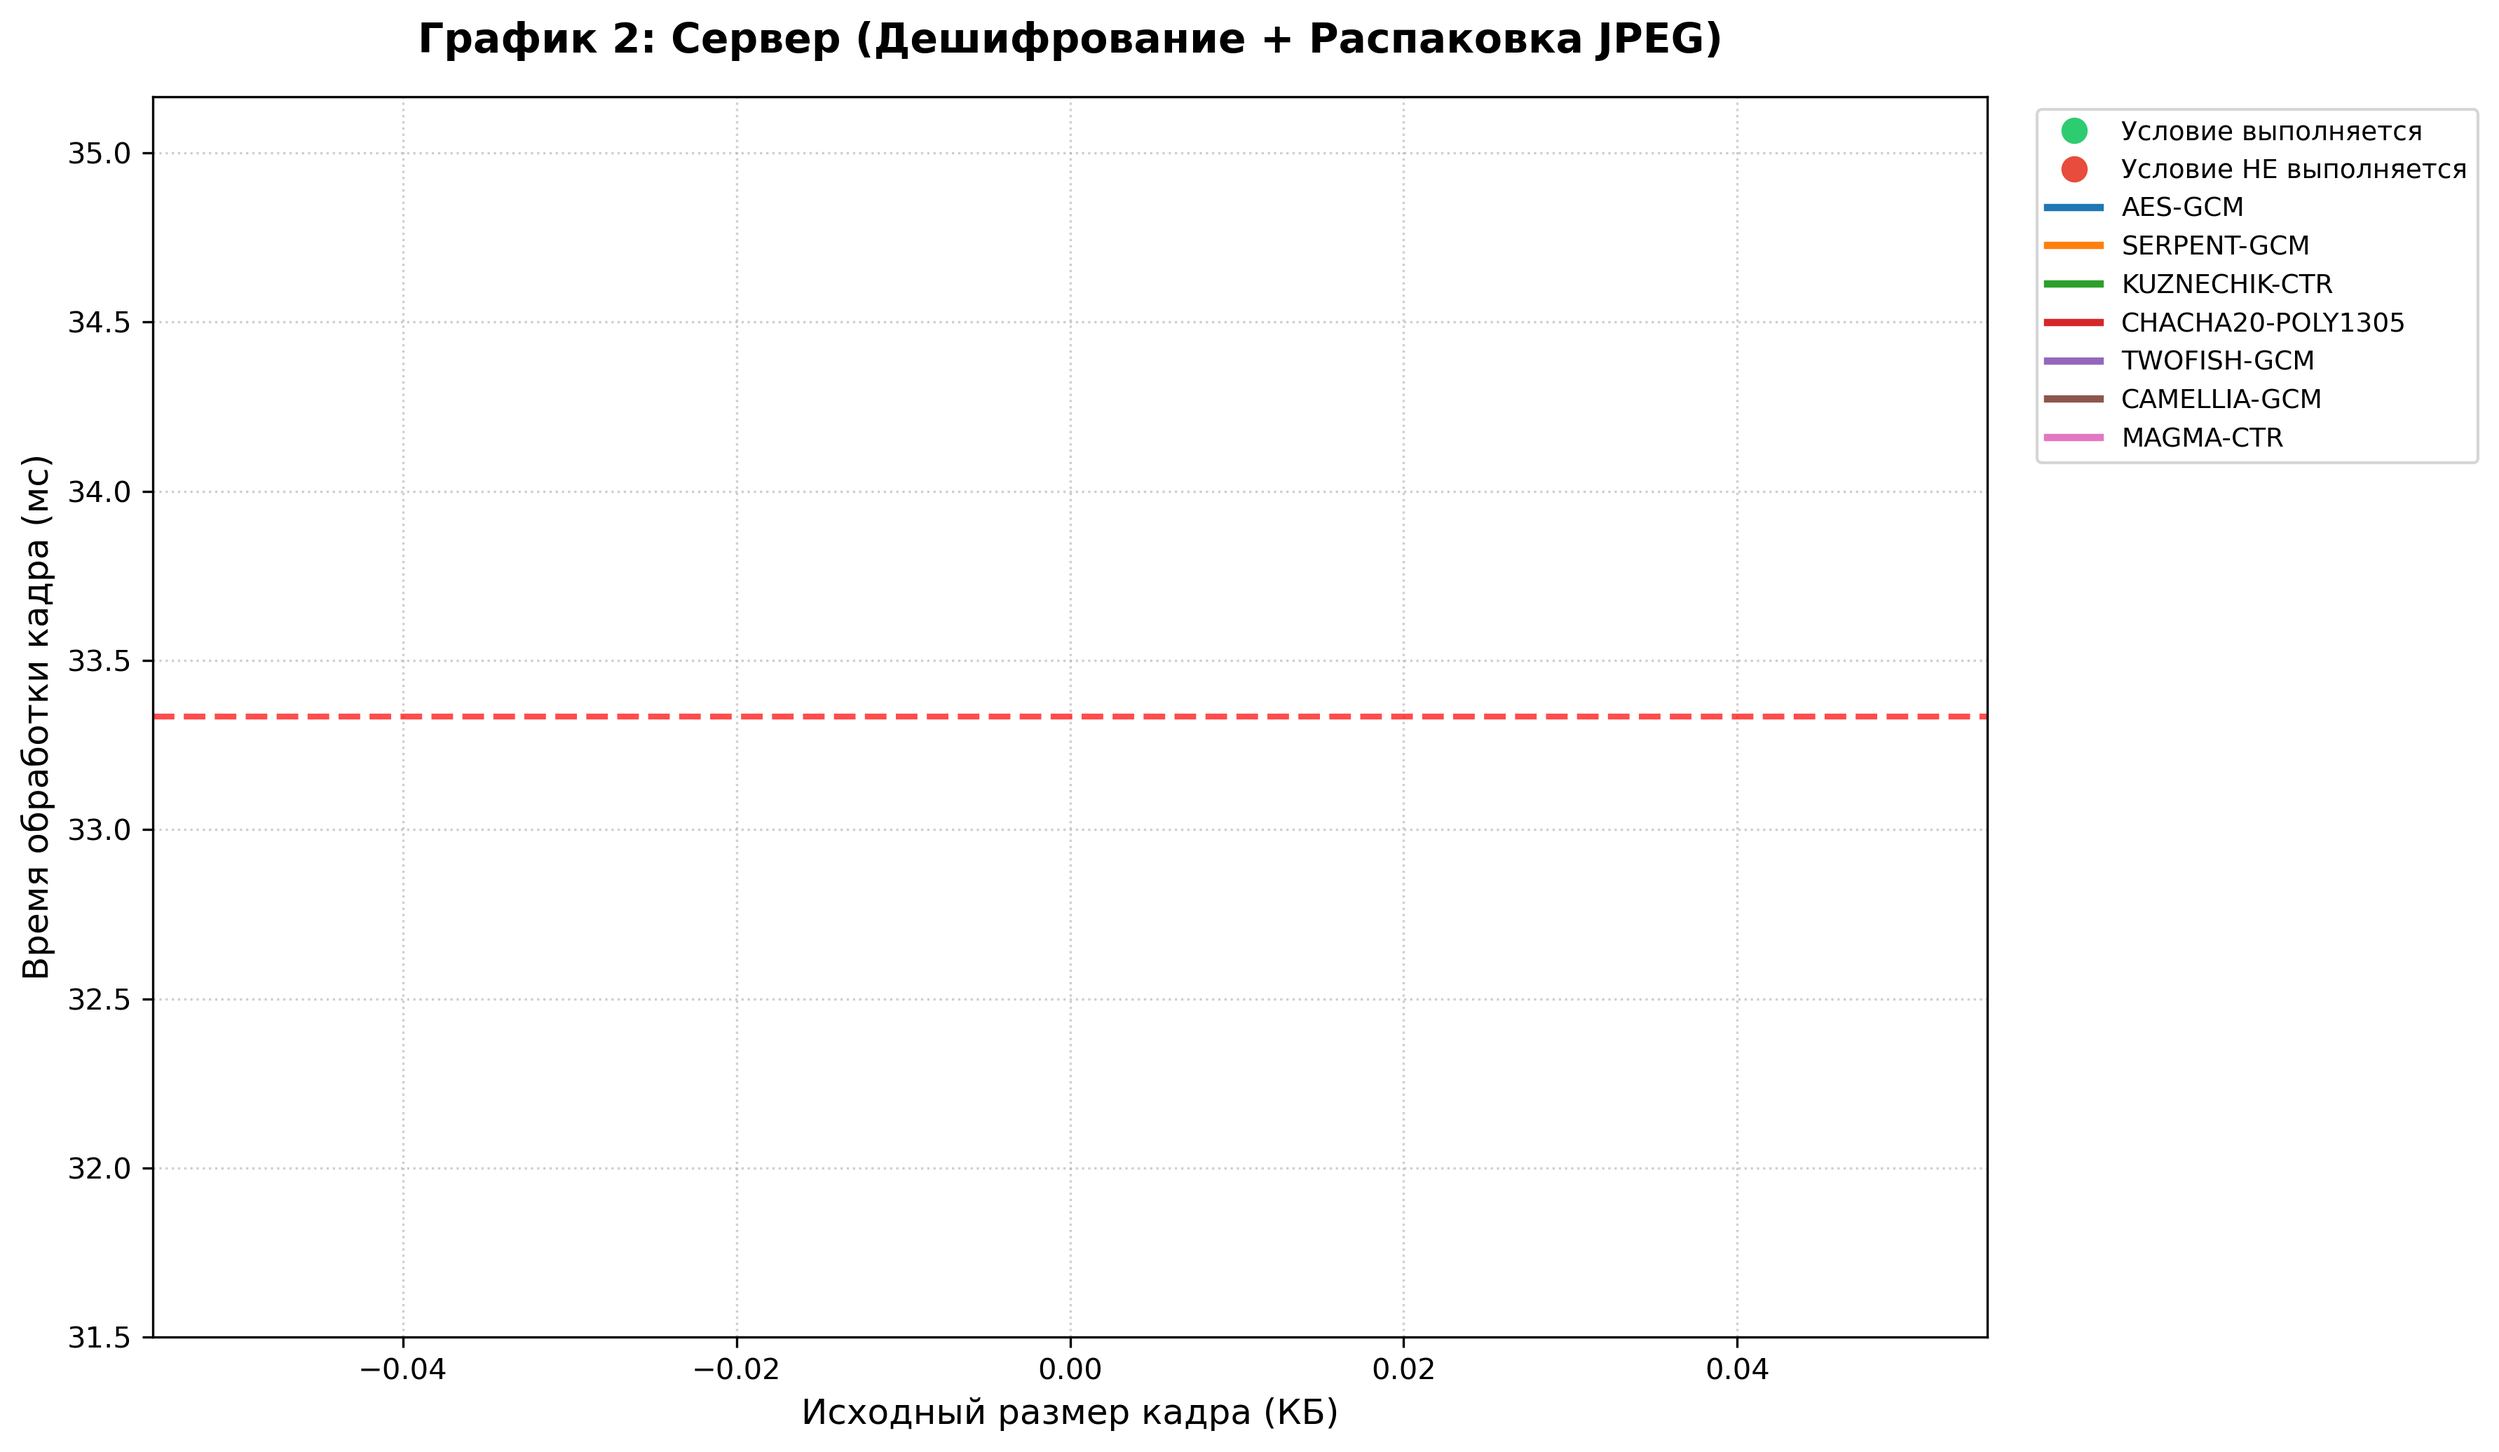
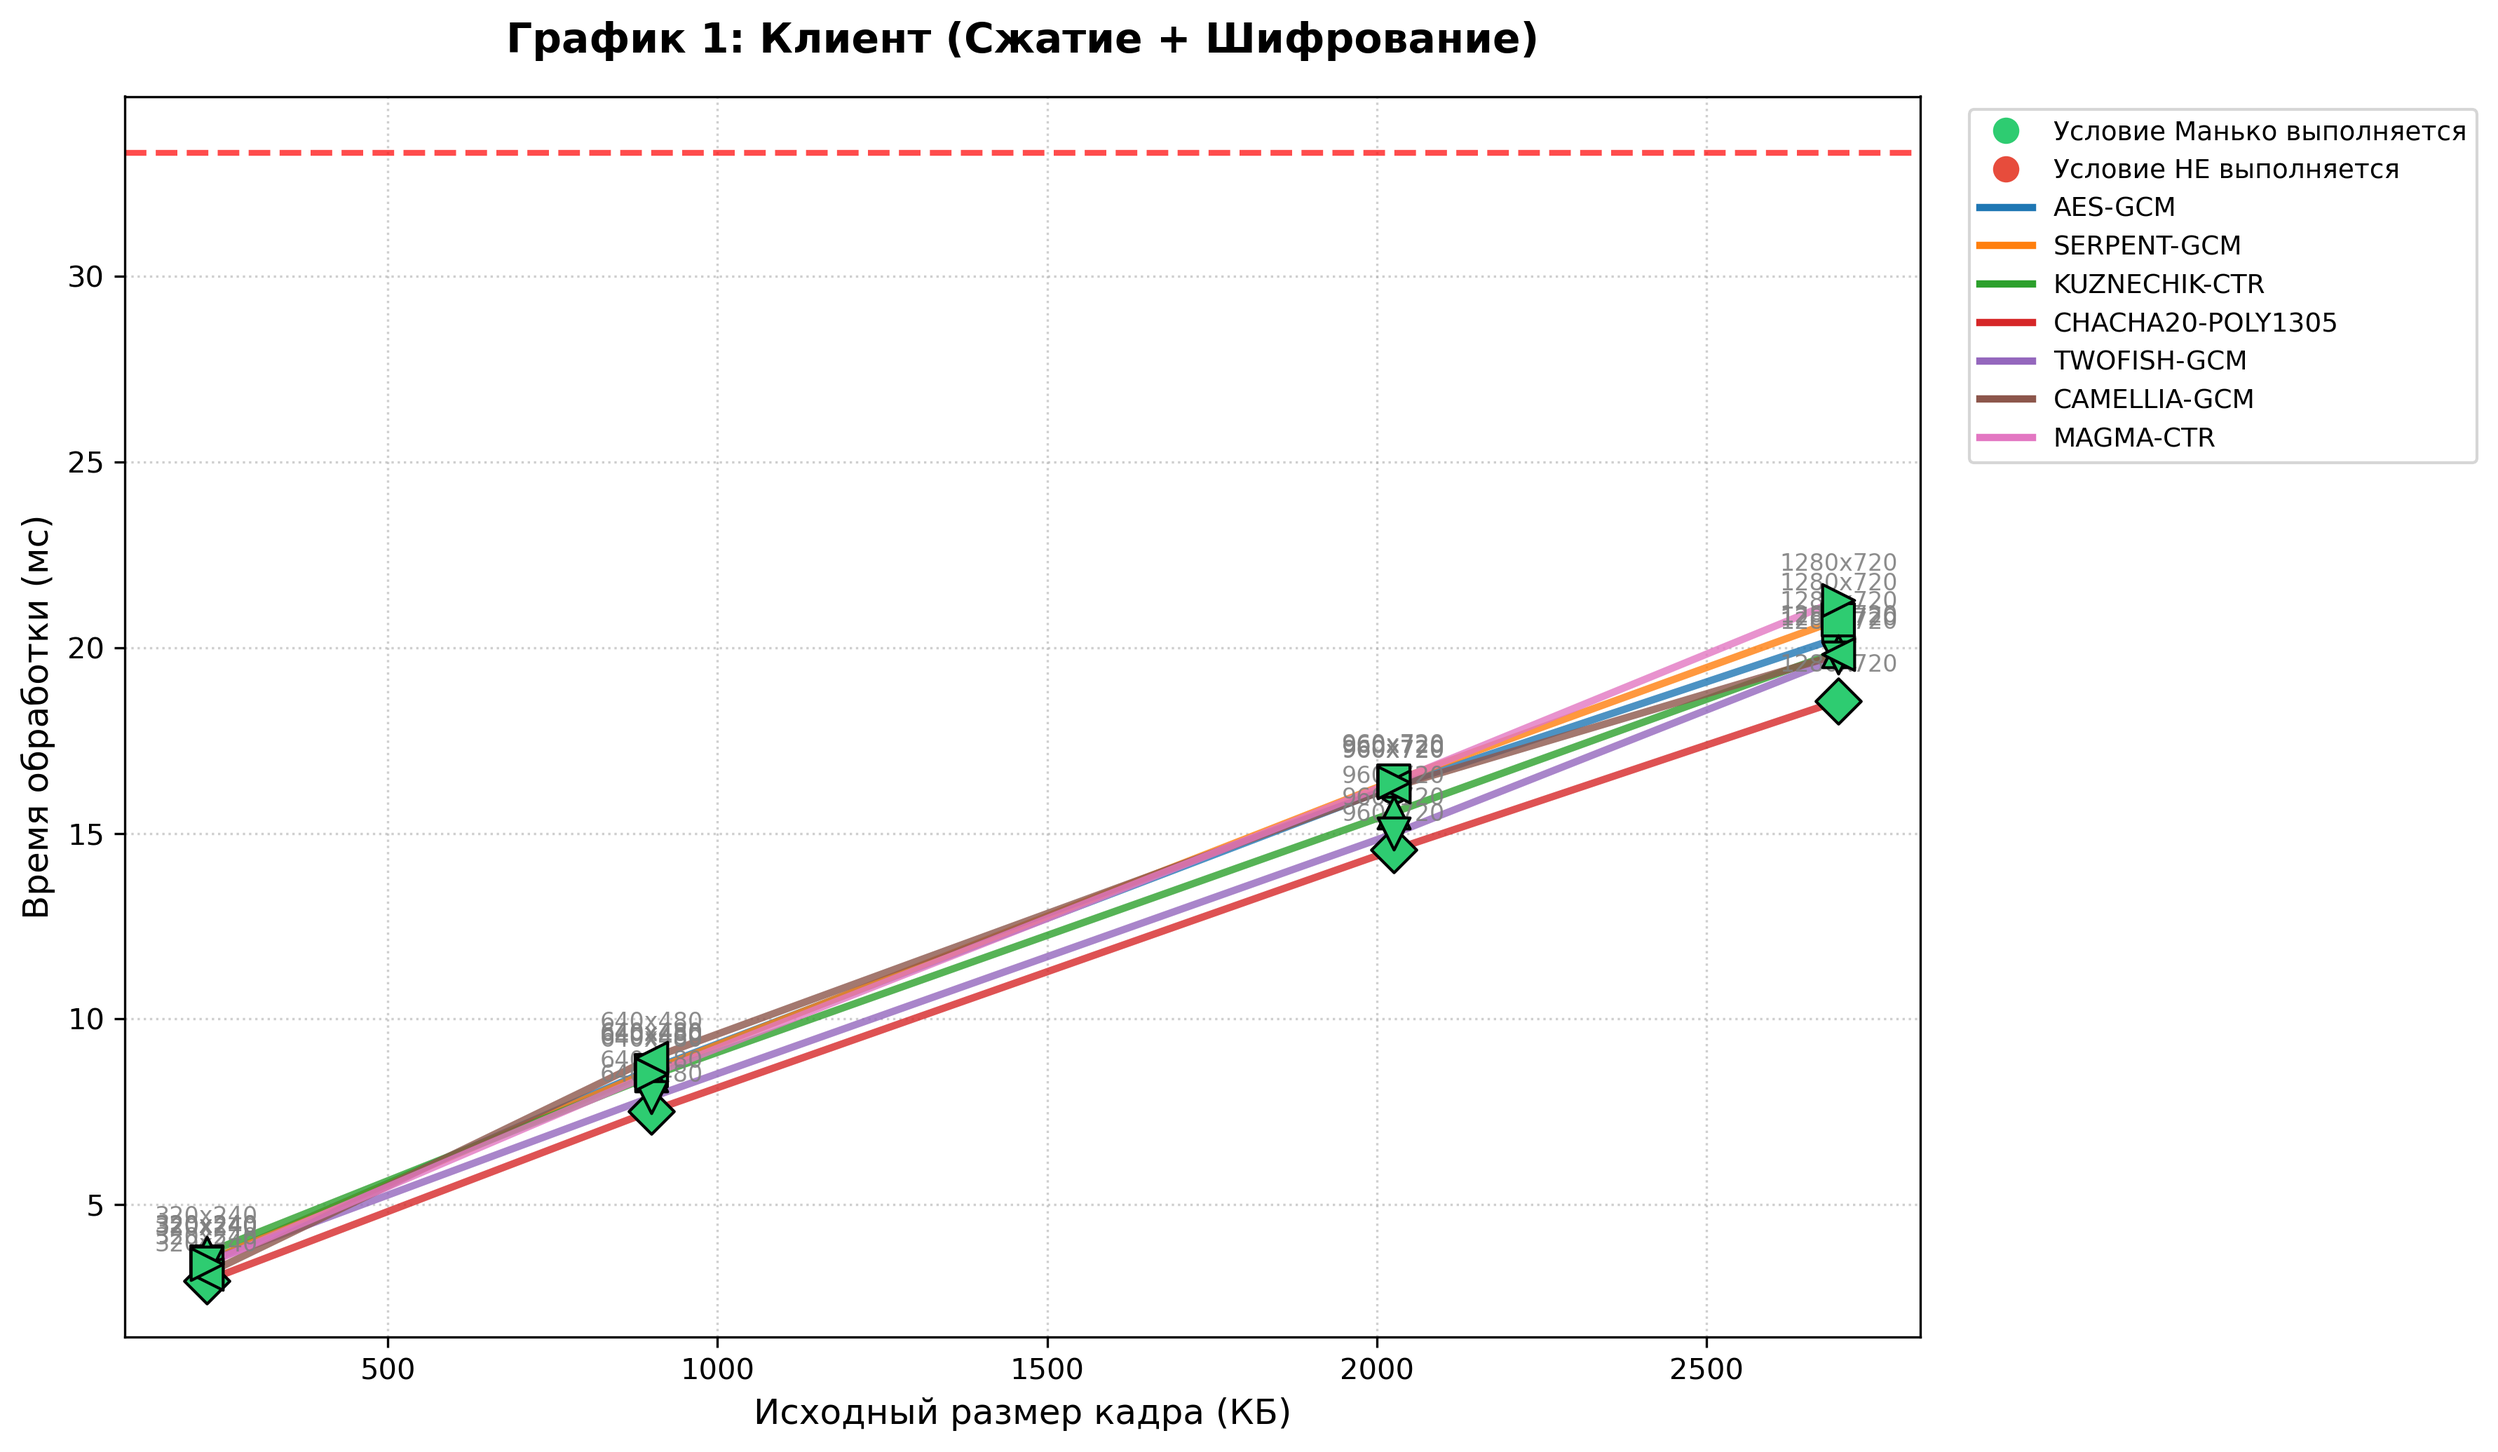
fix graphics and table

diff --git a/src/mainCode/diagnostic/videoCompressionDiagnostic.java b/src/mainCode/diagnostic/videoCompressionDiagnostic.java
@@ -1,9 +1,9 @@
 package mainCode.diagnostic;
 
 import mainCode.client.cryptoEncrypt;
-import mainCode.server.imageDecompress;
 import mainCode.server.cryptoDecrypt;
 import mainCode.client.imageCompress;
+import mainCode.server.imageDecompress;
 import org.bytedeco.javacv.FFmpegFrameGrabber;
 import org.bytedeco.javacv.Java2DFrameConverter;
 import org.bytedeco.javacv.Frame;
@@ -20,29 +20,27 @@ public class videoCompressionDiagnostic {
     };
     
     private static final String SOURCE_VIDEO = "images/source.mp4"; 
-    
     private static final String[] VIDEO_FILES = {
         "test_320x240.mp4", "test_640x480.mp4", "test_960x720.mp4", "test_1280x720.mp4"
     };
-    
     private static final int[][] RESOLUTIONS = {
         {320, 240}, {640, 480}, {960, 720}, {1280, 720}
     };
-
     private static final int WARMUP_FRAMES = 10;
 
     public static void main(String[] args) {
         System.out.println("🚀 Шаг 1: Подготовка видеофайлов...");
         prepareVideos();
         
-        System.out.println("\n Шаг 2: Диагностика пайплайна на реальном видео\n");
+        System.out.println("\n🚀 Шаг 2: Диагностика пайплайна на реальном видео\n");
         File resultsDir = new File("results");
         if (!resultsDir.exists()) resultsDir.mkdirs();
         
         String csvPath = "results/video_pipeline_separated.csv";
 
         try (PrintWriter csvWriter = new PrintWriter(new FileWriter(csvPath))) {
-            csvWriter.println("Algorithm;VideoFile;Resolution;TotalFrames;OriginalSize_Bytes;Avg_CompressedSize_Bytes;Compression_Ratio_Percent;Avg_ClientTime_Ms;Avg_ServerTime_Ms");
+            // 9 КОЛОНОК: добавили OriginalSize_Bytes обратно
+            csvWriter.println("Algorithm;VideoFile;Resolution;TotalFrames;OriginalSize_Bytes;Compression_Ratio_Percent;Avg_ClientTime_Ms;Avg_ServerTime_Ms");
 
             for (String algo : ALGORITHMS) {
                 System.out.println("=".repeat(70));
@@ -79,8 +77,7 @@ public class videoCompressionDiagnostic {
                     Process p = pb.start();
                     p.waitFor();
                 } catch (Exception e) {
-                    System.err.println("❌ Ошибка FFmpeg. Убедитесь, что ffmpeg установлен и добавлен в PATH.");
-                    e.printStackTrace();
+                    System.err.println("❌ Ошибка FFmpeg.");
                 }
             }
         }
@@ -105,7 +102,6 @@ public class videoCompressionDiagnostic {
         System.out.printf("   🎥 %-20s | %dx%d | Сырой кадр: %d КБ%n", 
             videoFile, width, height, originalSizeBytes / 1024);
 
-        // ПРОГРЕВ
         long checksum = 0;
         for (int i = 0; i < WARMUP_FRAMES; i++) {
             Frame frame = grabber.grabImage();
@@ -119,7 +115,6 @@ public class videoCompressionDiagnostic {
         }
         grabber.setFrameNumber(0);
 
-        // ОСНОВНОЙ ТЕСТ
         int frameCount = 0;
         long totalClientTimeNs = 0;
         long totalServerTimeNs = 0;
@@ -157,6 +152,7 @@ public class videoCompressionDiagnostic {
             System.out.printf("      ✅ Кадров: %-4d | Сжатие: %5.1f%% | Клиент: %-6.3f мс | Сервер: %-6.3f мс%n",
                 frameCount, compressionRatioPercent, avgClientMs, avgServerMs);
 
+            // 9 АРГУМЕНТОВ для 9 спецификаторов
             csvWriter.printf("%s;%s;%dx%d;%d;%d;%.2f;%.4f;%.4f%n",
                 algorithm, videoFile, width, height, frameCount, 
                 originalSizeBytes, compressionRatioPercent, avgClientMs, avgServerMs);
